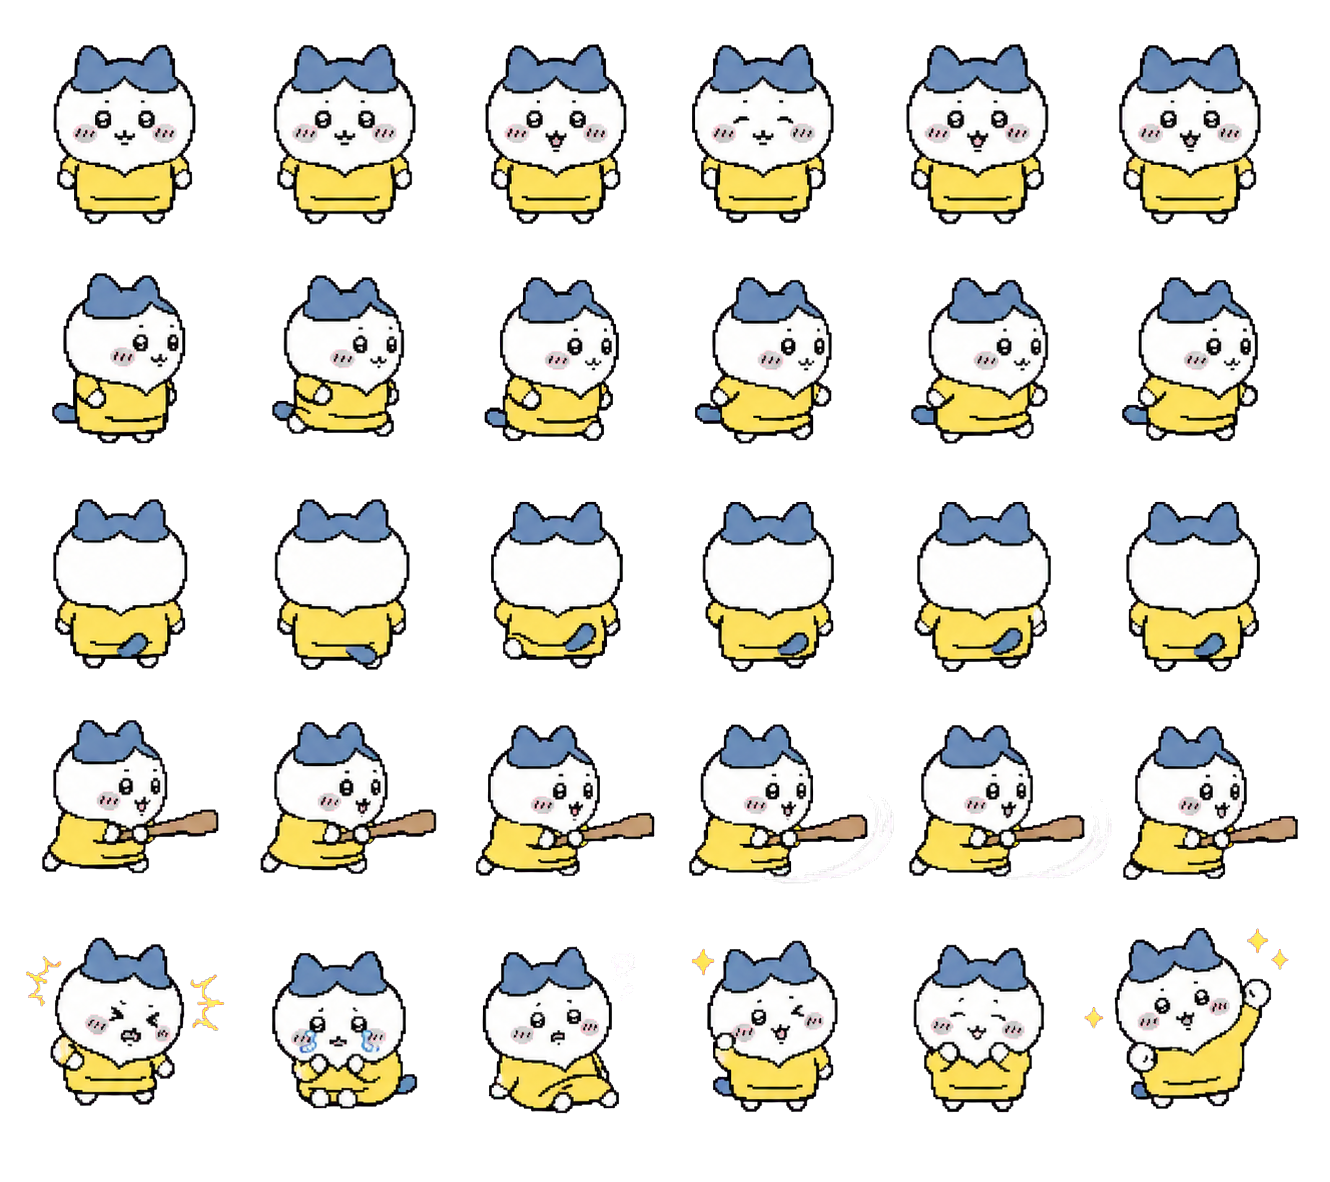
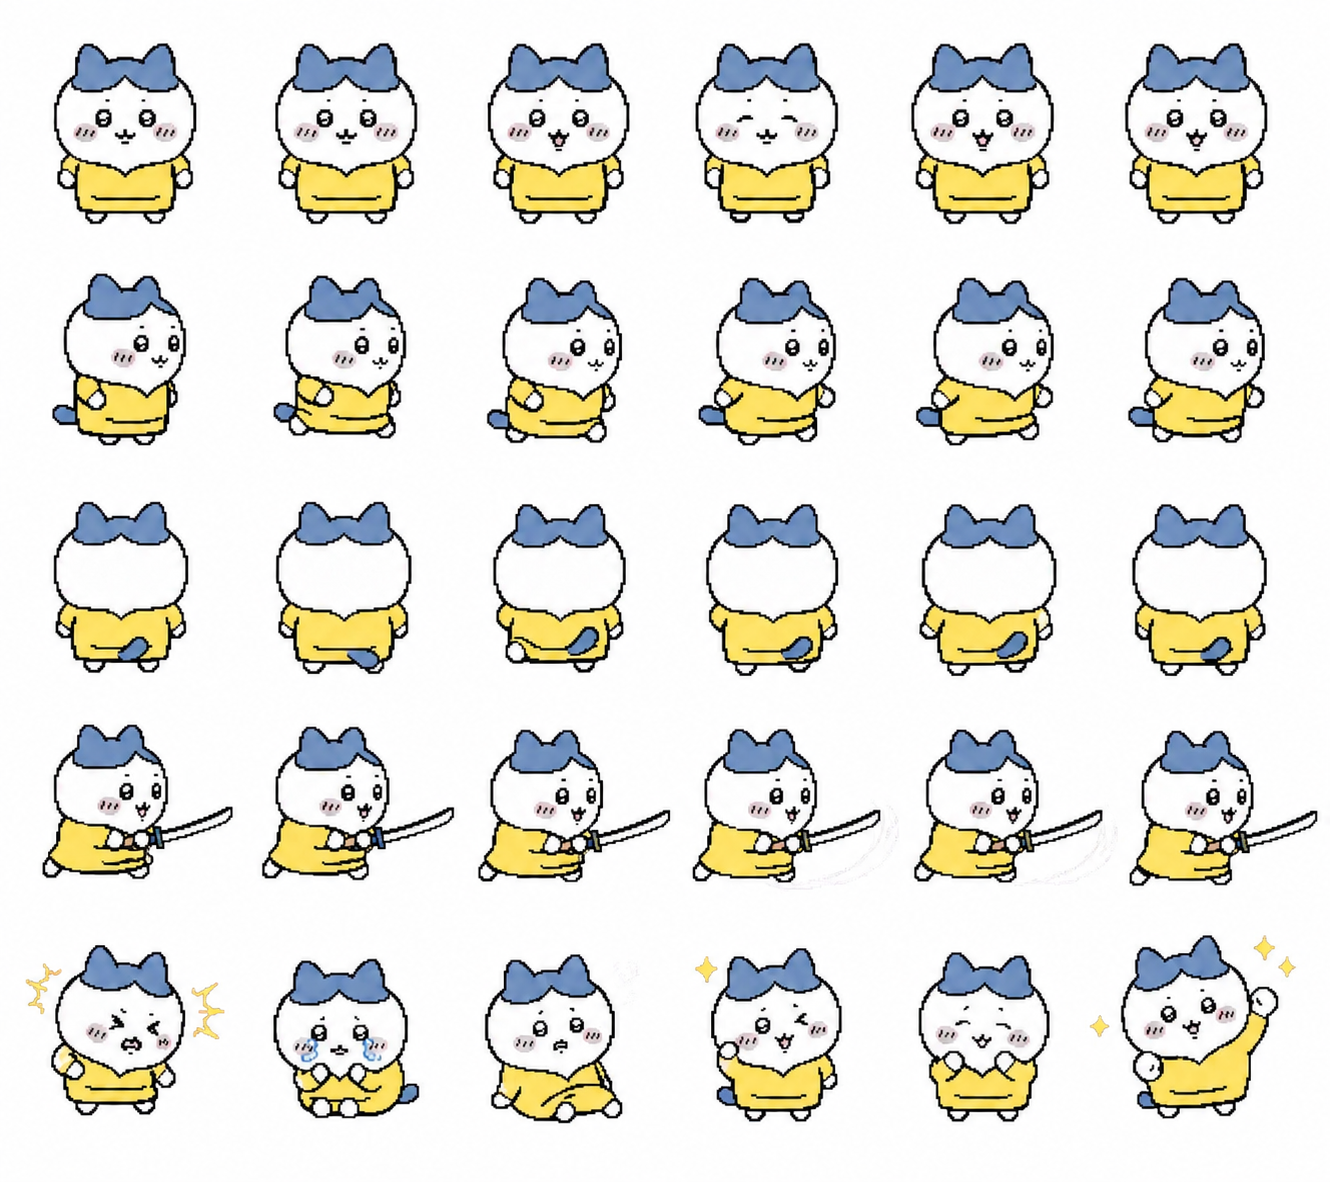
新增攻击/格挡精灵图与自动背景去除（黑底/白底）
- 新增三角色攻击防御精灵图（chiikawa/hachiware/usagi-attack-defend.png）
- buildAttackDefendSprites 自动检测黑底或白底，分别用 flood fill 去背
- 更新 hachiware-sheet.png
- 新增 CLAUDE.md 项目文档

diff --git a/src/main.js b/src/main.js
@@ -29,6 +29,11 @@
       daimyo: EMBEDDED_ASSETS.enemyDaimyo || "asset/enemies/daimyo-sheet.png",
       shogun: EMBEDDED_ASSETS.enemyShogun || "asset/enemies/shogun-sheet.png",
     },
+    attackDefend: {
+      chiikawa: EMBEDDED_ASSETS.chiikawaAttackDefend || "asset/characters/chiikawa-attack-defend.png",
+      hachiware: EMBEDDED_ASSETS.hachiwareAttackDefend || "asset/characters/hachiware-attack-defend.png",
+      usagi: EMBEDDED_ASSETS.usagiAttackDefend || "asset/characters/usagi-attack-defend.png",
+    },
   };
 
   const COLORS = {
@@ -159,6 +164,7 @@
     images: {},
     sprites: {},
     characterSprites: {},
+    attackDefendSprites: {},
     enemySprites: {},
     sheet: {},
     buttons: [],
@@ -303,6 +309,7 @@
     });
     buildCharacterSprites();
     buildEnemySprites();
+    buildAttackDefendSprites();
   }
 
   function buildGridSprites(images, target) {
@@ -335,6 +342,91 @@
     buildGridSprites(state.images.enemies, state.enemySprites);
   }
 
+  function detectBackground(image) {
+    const c = document.createElement("canvas");
+    c.width = image.width;
+    c.height = image.height;
+    const cx = c.getContext("2d");
+    cx.drawImage(image, 0, 0);
+    try {
+      const corners = [
+        cx.getImageData(0, 0, 1, 1).data,
+        cx.getImageData(image.width - 1, 0, 1, 1).data,
+        cx.getImageData(0, image.height - 1, 1, 1).data,
+        cx.getImageData(image.width - 1, image.height - 1, 1, 1).data,
+      ];
+      let dark = 0;
+      for (const p of corners) {
+        if (p[0] < 30 && p[1] < 30 && p[2] < 30) dark++;
+      }
+      return dark >= 3 ? "black" : "white";
+    } catch {
+      return "white";
+    }
+  }
+
+  function makeCutoutDark(image, sx, sy, sw, sh, threshold = 30) {
+    const out = document.createElement("canvas");
+    out.width = sw;
+    out.height = sh;
+    const outCtx = out.getContext("2d");
+    outCtx.imageSmoothingEnabled = false;
+    outCtx.drawImage(image, sx, sy, sw, sh, 0, 0, sw, sh);
+    let pixels;
+    try {
+      pixels = outCtx.getImageData(0, 0, sw, sh);
+    } catch {
+      return { image, sx, sy, sw, sh, width: sw, height: sh, raw: true };
+    }
+    const data = pixels.data;
+    const visited = new Uint8Array(sw * sh);
+    const stack = [];
+    for (let x = 0; x < sw; x++) {
+      stack.push(x, 0);
+      stack.push(x, sh - 1);
+    }
+    for (let y = 1; y < sh - 1; y++) {
+      stack.push(0, y);
+      stack.push(sw - 1, y);
+    }
+    while (stack.length > 0) {
+      const cy = stack.pop();
+      const cx = stack.pop();
+      if (cx < 0 || cx >= sw || cy < 0 || cy >= sh) continue;
+      const idx = cy * sw + cx;
+      if (visited[idx]) continue;
+      const pi = idx * 4;
+      if (data[pi] >= threshold && data[pi + 1] >= threshold && data[pi + 2] >= threshold) continue;
+      visited[idx] = 1;
+      data[pi + 3] = 0;
+      stack.push(cx - 1, cy);
+      stack.push(cx + 1, cy);
+      stack.push(cx, cy - 1);
+      stack.push(cx, cy + 1);
+    }
+    outCtx.putImageData(pixels, 0, 0);
+    return { image: out, sx: 0, sy: 0, sw, sh, width: sw, height: sh, raw: false };
+  }
+
+  function buildAttackDefendSprites() {
+    const rowNames = ["block", "attack1", "attack2", "attack3"];
+    Object.entries(state.images.attackDefend || {}).forEach(([key, image]) => {
+      if (!image) return;
+      const cellW = image.width / 6;
+      const cellH = image.height / 4;
+      const bg = detectBackground(image);
+      const cutFn = bg === "black"
+        ? (img, sx, sy, sw, sh) => makeCutoutDark(img, sx, sy, sw, sh, 10)
+        : (img, sx, sy, sw, sh) => makeCutout(img, sx, sy, sw, sh, 246);
+      state.attackDefendSprites[key] = {};
+      rowNames.forEach((rowName, row) => {
+        state.attackDefendSprites[key][rowName] = Array.from({ length: 6 }, (_, col) =>
+          cutFn(image, col * cellW, row * cellH, cellW, cellH)
+        );
+      });
+    });
+  }
+
   Promise.all([
     loadImage(ASSET_PATHS.avatar),
     loadImage(ASSET_PATHS.background),
@@ -350,13 +442,17 @@
     loadImage(ASSET_PATHS.enemies.ninja).catch(() => null),
     loadImage(ASSET_PATHS.enemies.daimyo).catch(() => null),
     loadImage(ASSET_PATHS.enemies.shogun).catch(() => null),
+    loadImage(ASSET_PATHS.attackDefend.chiikawa).catch(() => null),
+    loadImage(ASSET_PATHS.attackDefend.hachiware).catch(() => null),
+    loadImage(ASSET_PATHS.attackDefend.usagi).catch(() => null),
   ])
-    .then(([avatar, background, opening, battleBackground, castleInterior, chiikawa, hachiware, usagi, farmer, ashigaru, samurai, ninja, daimyo, shogun]) => {
+    .then(([avatar, background, opening, battleBackground, castleInterior, chiikawa, hachiware, usagi, farmer, ashigaru, samurai, ninja, daimyo, shogun, adChiikawa, adHachiware, adUsagi]) => {
       state.images.avatar = avatar;
       state.images.background = background;
       state.images.opening = opening;
       state.images.characters = { chiikawa, hachiware, usagi };
       state.images.enemies = { farmer, ashigaru, samurai, ninja, daimyo, shogun };
+      state.images.attackDefend = { chiikawa: adChiikawa, hachiware: adHachiware, usagi: adUsagi };
       if (battleBackground) {
         state.images.battleBackground = battleBackground;
       }
@@ -3185,14 +3281,17 @@
         const stretch = player.dashTime > 0 ? 1 + 0.1 * Math.sin(dashProgress * Math.PI) : 1;
         const hurtPulse = player.hurt > 0 ? clamp(player.hurt / 0.38, 0, 1) : 0;
         const hurtKick = hurtPulse > 0 ? Math.sin(hurtPulse * Math.PI * 5) * 4 : 0;
-        const lungeMult = finisher ? 1.6 : (comboStep === 0 ? 0.6 : 1);
-        const blocking = player.blockTimer > 0;
+        const hasAdSprite = !!state.attackDefendSprites[player.role.spriteKey];
+        const attacking = player.attackTimer > 0 && hasAdSprite;
+        const blocking = player.blockTimer > 0 && hasAdSprite;
+        const lungeMult = attacking ? (finisher ? 0.9 : (comboStep === 0 ? 0.35 : 0.55)) : (finisher ? 1.6 : (comboStep === 0 ? 0.6 : 1));
+        const blockLean = blocking ? (flip ? 0.04 : -0.04) : (player.blockTimer > 0 ? (flip ? 0.06 : -0.06) : 0);
         drawCharacterFrame(characterFrame, player.x, player.y + 18, 0.38, flip, {
-          rotation: dashLean + player.attackDirX * attackLunge * 0.13 * lungeMult + hurtPulse * (flip ? -0.12 : 0.12) + (blocking ? (flip ? 0.06 : -0.06) : 0),
-          scaleX: stretch + attackLunge * 0.1 * lungeMult + hurtPulse * 0.12,
-          scaleY: 1 / stretch - attackLunge * 0.06 * lungeMult - hurtPulse * 0.08,
-          offsetX: hurtKick + player.attackDirX * attackLunge * 12 * lungeMult,
-          offsetY: -hurtPulse * 7 + player.attackDirY * attackLunge * 7 * lungeMult,
+          rotation: dashLean + player.attackDirX * attackLunge * (attacking ? 0.06 : 0.13) * lungeMult + hurtPulse * (flip ? -0.12 : 0.12) + blockLean,
+          scaleX: stretch + attackLunge * (attacking ? 0.04 : 0.1) * lungeMult + hurtPulse * 0.12,
+          scaleY: 1 / stretch - attackLunge * (attacking ? 0.02 : 0.06) * lungeMult - hurtPulse * 0.08,
+          offsetX: hurtKick + player.attackDirX * attackLunge * (attacking ? 8 : 12) * lungeMult + (blocking ? -player.attackDirX * 3 : 0),
+          offsetY: -hurtPulse * 7 + player.attackDirY * attackLunge * (attacking ? 4 : 7) * lungeMult,
         });
       }
       else drawSprite(player.row, frame, player.x, player.y + 19, 0.39, flip);
@@ -3672,30 +3771,32 @@
   function chooseCharacterFrame(actor) {
     const spriteSet = actor.role ? state.characterSprites[actor.role.spriteKey] : null;
     if (!spriteSet) return null;
+    const adSet = actor.role ? state.attackDefendSprites[actor.role.spriteKey] : null;
     if (actor.hurt > 0) return pickCharacterFrame(spriteSet.emote, actor.hurt, 0.08);
     if (actor.blockTimer > 0) {
+      if (adSet && adSet.block) {
+        const progress = clamp(1 - actor.blockTimer / BLOCK_DURATION, 0, 0.999);
+        const idx = Math.floor(progress * adSet.block.length);
+        return adSet.block[idx] || adSet.block[0];
+      }
       return pickCharacterFrame(spriteSet.front, performance.now(), 200);
     }
     if (actor.attackTimer > 0) {
       const duration = actor.attackDuration || 0.32;
       const progress = clamp(1 - actor.attackTimer / duration, 0, 0.999);
+      const step = actor.attackComboStep || 0;
+      if (adSet) {
+        const rowKey = step === 0 ? "attack1" : step === 1 ? "attack2" : "attack3";
+        const frames = adSet[rowKey];
+        if (frames && frames.length > 0) {
+          const idx = Math.min(frames.length - 1, Math.floor(progress * frames.length));
+          return frames[idx];
+        }
+      }
       const frames = spriteSet.attack;
       if (frames && frames.length > 0) {
-        const step = actor.attackComboStep || 0;
-        const total = frames.length;
-        // Slice the attack frame array per combo step so each strike shows different poses.
-        let startRatio = 0;
-        let endRatio = 1;
-        if (total >= 3) {
-          if (step === 0) { startRatio = 0; endRatio = 0.45; }
-          else if (step === 1) { startRatio = 0.30; endRatio = 0.80; }
-          else { startRatio = 0.55; endRatio = 1; }
-        }
-        const startIdx = Math.floor(startRatio * total);
-        const endIdx = Math.max(startIdx + 1, Math.floor(endRatio * total));
-        const sliceLen = Math.max(1, endIdx - startIdx);
-        const localIdx = Math.min(sliceLen - 1, Math.floor(progress * sliceLen));
-        return frames[startIdx + localIdx] || frames[0];
+        const idx = Math.min(frames.length - 1, Math.floor(progress * frames.length));
+        return frames[idx];
       }
       return null;
     }

diff --git a/index.html b/index.html
@@ -16,7 +16,7 @@
         tabindex="0"
       ></canvas>
     </main>
-    <script src="src/embedded-assets.js?v=20260517-comboblock3" defer></script>
-    <script src="src/main.js?v=20260517-comboblock3" defer></script>
+    <script src="src/embedded-assets.js?v=20260524-fixsprite6" defer></script>
+    <script src="src/main.js?v=20260524-fixsprite6" defer></script>
   </body>
 </html>

diff --git a/CLAUDE.md b/CLAUDE.md
@@ -1,0 +1,85 @@
+# CLAUDE.md
+
+This file provides guidance to Claude Code (claude.ai/code) when working with code in this repository.
+
+## Project Overview
+
+"下克上御前乱斗" (Gekokujo Gozen Rantou) — a 2D Edo-period pixel action brawler game inspired by the Chiikawa anime's in-universe arcade game "下剋上オンライン". Players pick a character and fight through waves of increasingly powerful enemies, earning bonus multipliers for defeating foes of higher rank.
+
+## Running the Game
+
+No build system or dependencies. Open `index.html` directly in a browser, or serve with any static file server:
+
+```bash
+python3 -m http.server 8000
+# then open http://localhost:8000
+```
+
+There are no tests, linters, or build steps.
+
+## Architecture
+
+The entire game is a single vanilla JS IIFE in `src/main.js` (~4600 lines) rendering to an HTML5 Canvas (1179×543). No frameworks, no modules, no bundler.
+
+### Scene State Machine
+
+`state.scene` drives the game flow:
+```
+loading → start → select → playing → upgrade → playing → ... → result → ranking
+```
+The boss stage transitions the arena from "street" to "castle" mid-game.
+
+### Core Systems (all in main.js)
+
+- **Game loop**: `loop()` → `update(dt)` → `draw()` via requestAnimationFrame, capped at 33ms delta
+- **Global state**: Single `state` object holds scene, images, sprites, buttons, keys, pointer, and the active `game` sub-object
+- **Entity model**: Player, enemies, projectiles, drops, effects, floaters — all plain objects in arrays on `state.game`
+- **Combat**: 3-step combo (`ATTACK_COMBO`), block with perfect-block window (`BLOCK_PERFECT_WINDOW`), dash with charges, per-character special skills (E/K key)
+- **Rank/multiplier system**: 6 enemy ranks (农民→足轻→武士→忍者→大名→将军). Defeating higher-rank enemies yields score multipliers via `calculateMultiplier()`
+- **Boss fight**: Triggered after wave 3. Boss has 2 HP phases, charge attacks, minion spawns, and a dedicated arena with destructible shrines
+- **Upgrade system**: Between waves, player picks from `upgradePool` (attack, speed, heal, rebel multiplier, range, score, damage reduction)
+
+### Characters
+
+Three playable characters (ROLES array): Chiikawa (balanced), Hachiware (support), Usagi (glass cannon). Each has a unique special skill (`useChiikawaSpecial`, `useHachiwareSpecial`, `useUsagiSpecial`).
+
+### Input
+
+- Movement: WASD / Arrow keys
+- Attack: J / left-click
+- Block: Space / right-click (with perfect-block timing)
+- Special: E or K
+- Dash: Shift (2 charges, 15s recharge)
+- Aim direction follows mouse pointer
+
+### Asset Pipeline
+
+- `src/embedded-assets.js`: All sprite images base64-encoded into `window.GEKOKUJO_EMBEDDED_ASSETS` (very large file, ~1.5MB). This allows the game to work without a server for asset loading.
+- `asset/characters/`: 6-column × 5-row sprite sheets (front/side/back/attack/emote × 6 frames). Parsed by `buildGridSprites()`.
+- `asset/enemies/`: Same grid format for enemy sprites.
+- Legacy sprites in `asset/asset_avater_sprit.png` use a different layout (`FRAME_X` / `ROW_Y` constants) and are cut out with white-background removal (`makeCutout()`).
+
+### Sprite Sheet Format (characters & enemies)
+
+Each sheet is a 6×5 grid. Rows: front, side, back, attack, emote. Columns: 6 animation frames. Cell size is auto-calculated from image dimensions.
+
+## Key Constants to Know
+
+- Canvas: 1179×543 fixed resolution
+- `RANKS`: enemy stat table (hp, speed, damage, score thresholds)
+- `ATTACK_COMBO`: timing/damage/range for the 3-hit combo
+- `BOSS_TRIGGER_WAVE`: boss appears after wave 3
+- `COMBO_WINDOW`: 0.55s to chain the next hit
+- `BLOCK_PERFECT_WINDOW`: 0.10s for perfect block
+- Rankings stored in localStorage under key `gekokujoRankings`
+
+## Game Design Reference
+
+`gamedesign.md` contains the full game design document (in Chinese) covering planned features, character classes, maps, items, and modes. The current implementation is a subset (demo version) of that design.
+
+## Working with the Code
+
+- The codebase is a single large file — search by function name. Key entry points: `createGame()`, `update()`, `draw()`, `loop()`.
+- Adding a new enemy rank: add to `RANKS` array, create a sprite sheet in `asset/enemies/`, add to `ASSET_PATHS.enemies` and the image loading Promise.all chain.
+- Adding a new character: add to `ROLES` array, create sprite sheet, add special skill function, wire it in `useSpecialSkill()`.
+- Version cache-busting: update the `?v=` query param in `index.html` script tags when changing assets or code.
